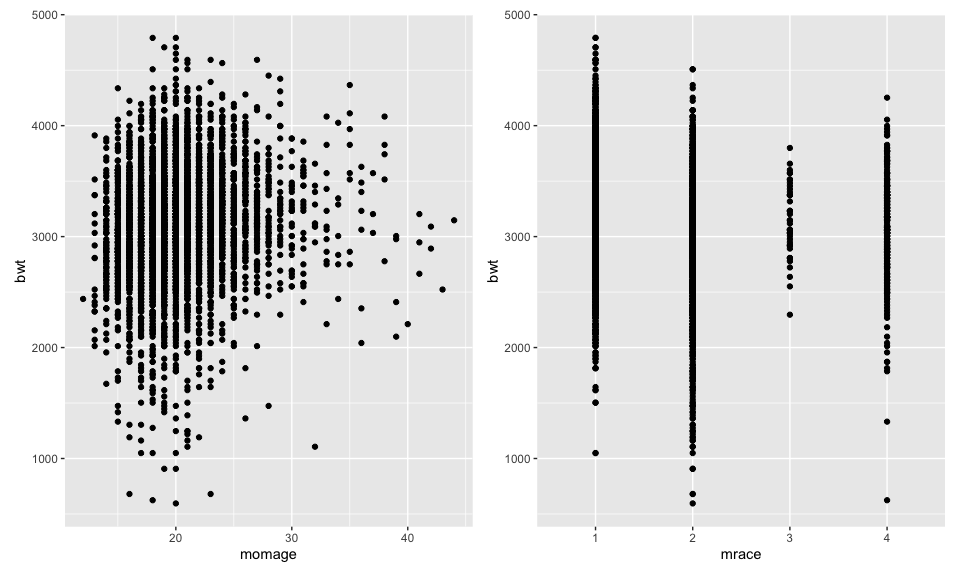
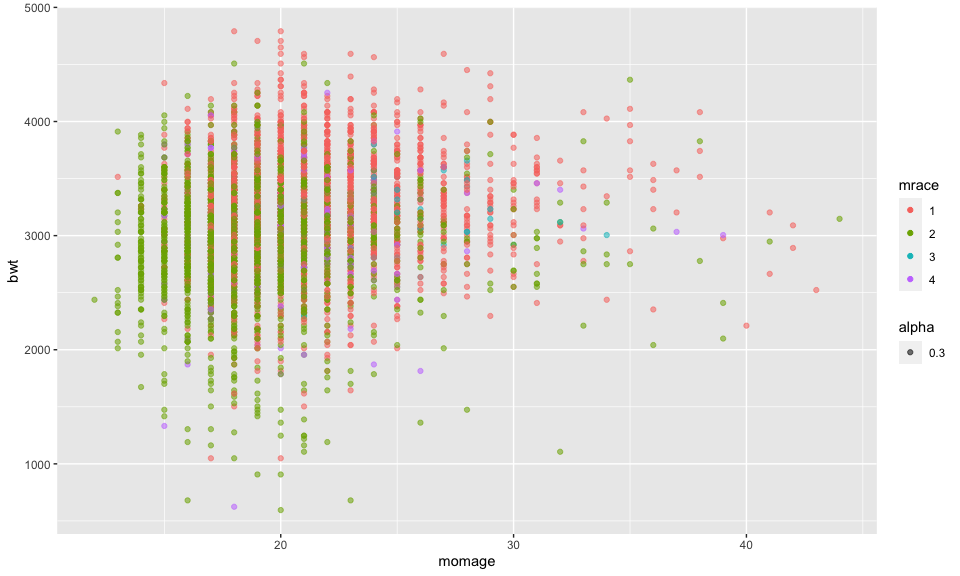
start 3. crossv_mc

diff --git a/p8105_hw6_td2749.md b/p8105_hw6_td2749.md
@@ -209,7 +209,11 @@ bwt_momage_mrace_scatter =
   birthweight_data %>% 
     ggplot(aes(x = momage, y = bwt, color = mrace)) +
     geom_point(aes(alpha = 0.3))
+
+bwt_momage_mrace_scatter
 ```
+
+<img src="p8105_hw6_td2749_files/figure-gfm/linear model suggestion-1.png" width="90%" />
 
 ``` r
 my_model = 
